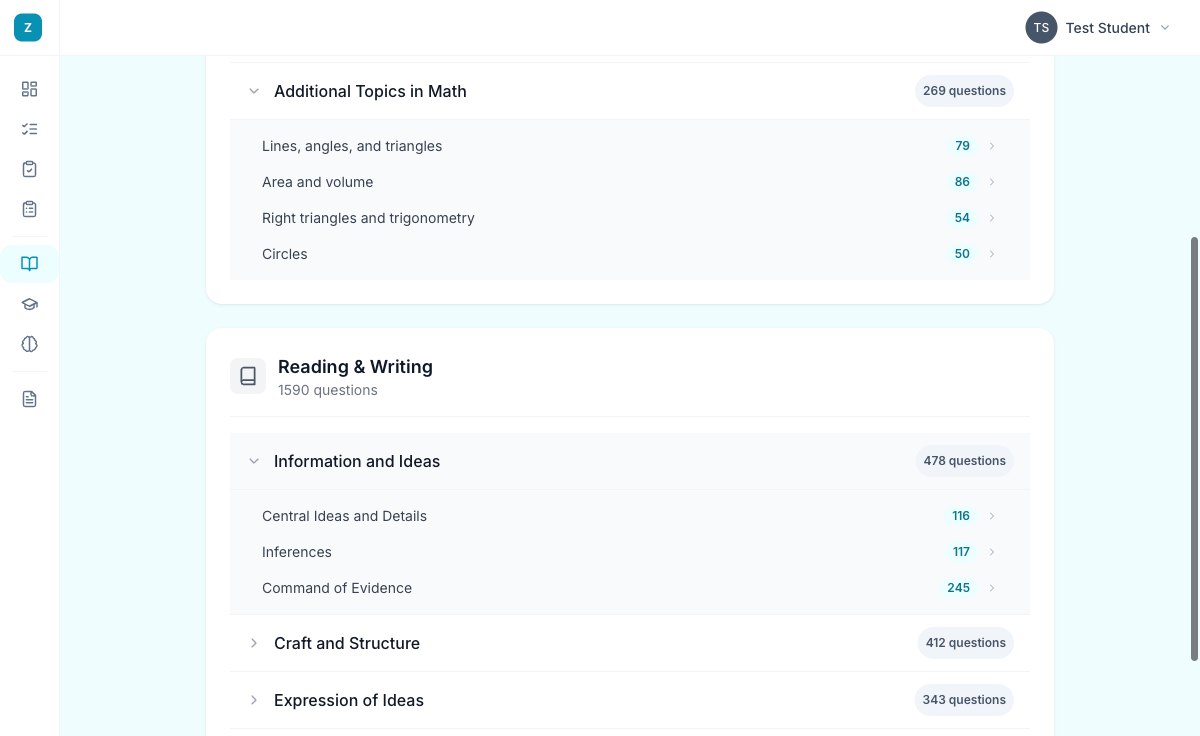
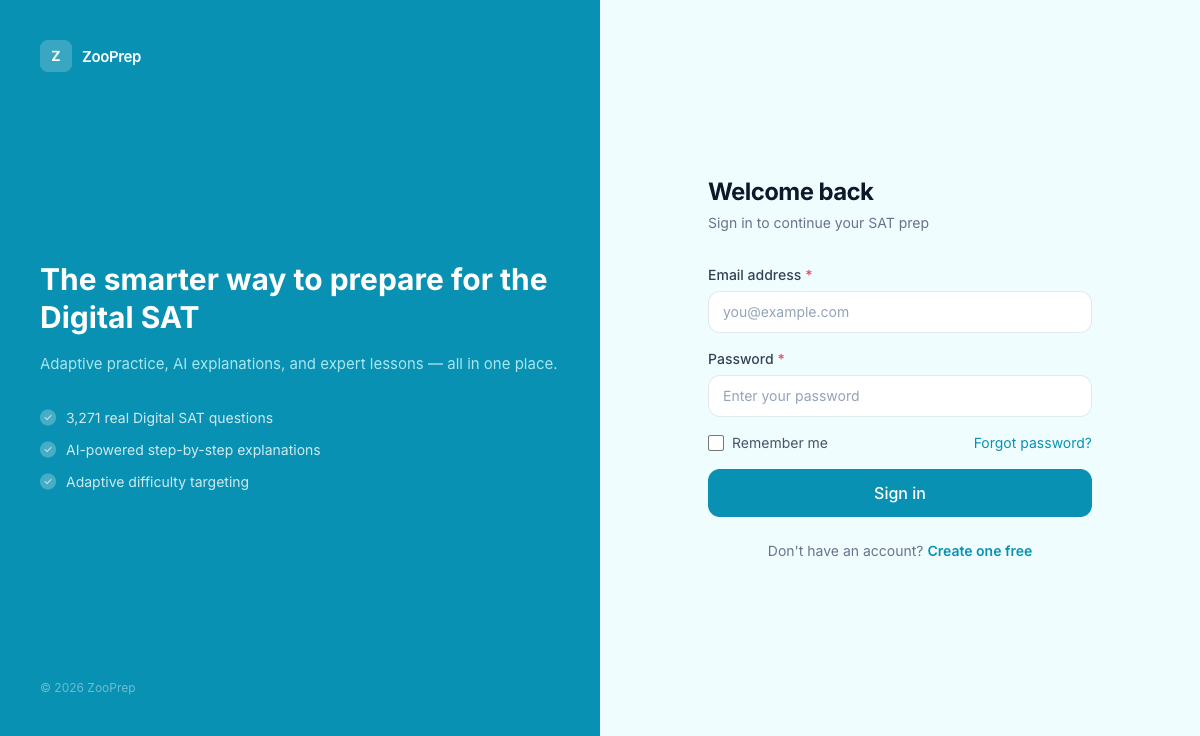
new seed script

diff --git a/backend/alembic/versions/20260523_rename_practice_tests_metadata.py b/backend/alembic/versions/20260523_rename_practice_tests_metadata.py
@@ -1,0 +1,33 @@
+"""Rename practice_tests.metadata to test_metadata
+
+Revision ID: 20260523_rename_metadata
+Revises: 20260522_practice_tests
+Create Date: 2026-05-23 06:50:00.000000
+
+The original migration created a column named 'metadata', which is a reserved
+name in SQLAlchemy's Declarative API. The model uses `test_metadata` to avoid
+the conflict, so this migration renames the column to match.
+"""
+from alembic import op
+
+
+revision = '20260523_rename_metadata'
+down_revision = '20260522_practice_tests'
+branch_labels = None
+depends_on = None
+
+
+def upgrade():
+    op.alter_column(
+        'practice_tests',
+        'metadata',
+        new_column_name='test_metadata',
+    )
+
+
+def downgrade():
+    op.alter_column(
+        'practice_tests',
+        'test_metadata',
+        new_column_name='metadata',
+    )
